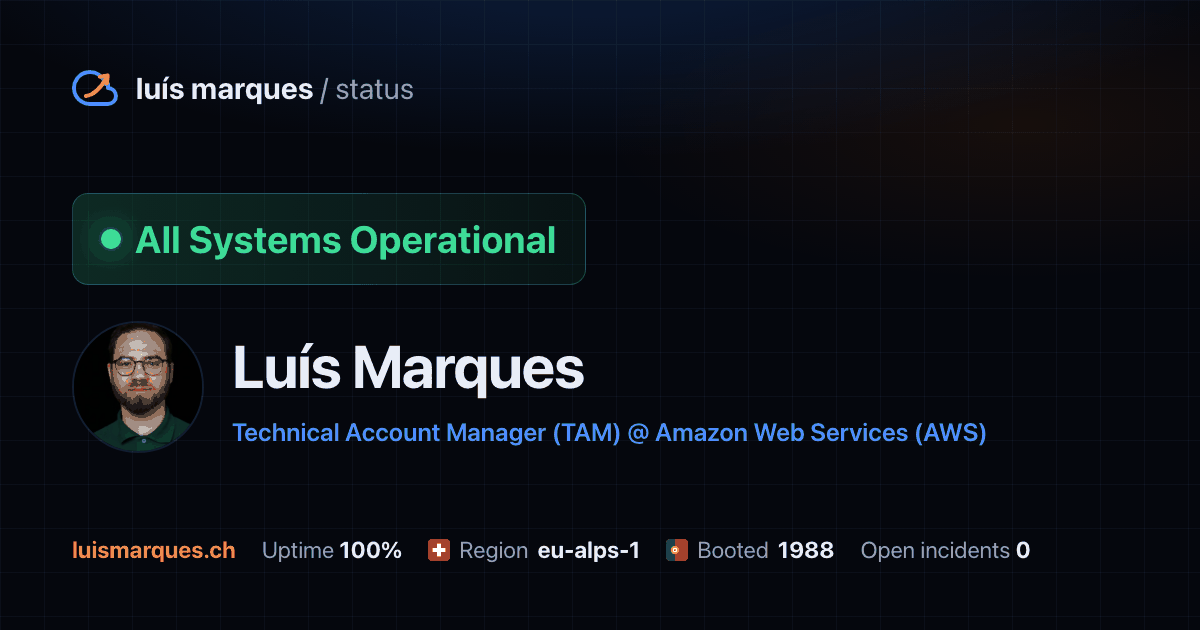
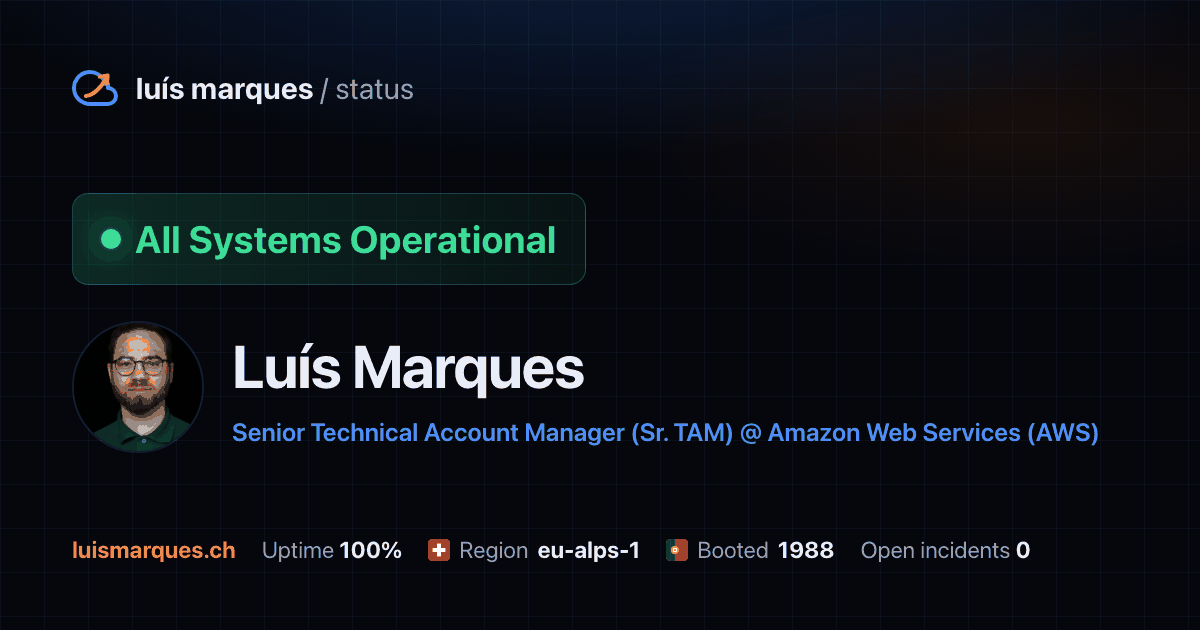
Add the Senior TAM promotion, October 2026

Changed region(s): [[0.185, 0.6635, 0.925, 0.7238], [0.0925, 0.5127, 0.1233, 0.6032]]

diff --git a/src/data/status.js b/src/data/status.js
@@ -7,7 +7,7 @@
 
 export const person = {
   name: 'Luís Marques',
-  title: 'Technical Account Manager (TAM) @ Amazon Web Services (AWS)',
+  title: 'Senior Technical Account Manager (Sr. TAM) @ Amazon Web Services (AWS)',
   // Official description of what a TAM actually does, for the curious.
   titleUrl: 'https://aws.amazon.com/premiumsupport/tam-engagement/',
   location: 'Martigny, Switzerland',
@@ -118,7 +118,22 @@ export const components = [
 // Career history, rendered as an incident log. Newest first.
 export const incidents = [
   {
-    period: 'Since 2022',
+    period: 'Since October 2026',
+    title: 'In-place upgrade: TAM to Senior TAM',
+    severity: 'resolved',
+    org: 'Amazon Web Services (AWS) · Geneva, CH',
+    flag: 'ch',
+    canton: 'ge',
+    role: 'Senior Technical Account Manager (Sr. TAM)',
+    entries: [
+      'Rolling upgrade, applied with zero downtime. No rollback plan was needed.',
+      'Change approved after a thorough review cycle, as all good changes are.',
+      'Release notes: wider scope, same curiosity, coffee intake unchanged.',
+      'Still Day 1. The counter above did not reset, I checked.',
+    ],
+  },
+  {
+    period: '2022 to 2026',
     title: 'Migrated to AWS, the employer this time, not just the cloud',
     severity: 'resolved',
     org: 'Amazon Web Services (AWS) · Geneva, CH',
@@ -215,10 +230,13 @@ export const eras = [
   { start: 2016, era: 'nespresso', name: 'Nespresso', label: 'Nespresso · eCommerce consultant · Lausanne' },
   { start: 2018, era: 'sqli', name: 'SQLI', label: 'SQLI · tech lead · Lausanne' },
   { start: 2022, era: 'aws', name: 'AWS', label: 'AWS · Technical Account Manager (TAM) · Geneva' },
+  { start: 2026, era: 'aws-sr', name: 'AWS (Senior)', label: 'AWS · Senior Technical Account Manager (Sr. TAM) · Geneva' },
 ];
 
 // Years that ran two engagements at once. Those bars render split, half of each colour.
 // 2018: the employer changed, the Nespresso engagement did not, so the year belongs to both.
+// 2026: TAM until September, Senior TAM from October, so the year carries both roles.
 export const overlaps = [
   { from: 2018, to: 2018, era: 'nespresso', label: 'Nespresso engagement continued through the employer change' },
+  { from: 2026, to: 2026, era: 'aws', label: 'TAM until September, promoted in October' },
 ];

diff --git a/tools/og-card.html b/tools/og-card.html
@@ -149,7 +149,7 @@
         <img src="../public/luis-sm.jpg" alt="" />
         <div>
           <h1>Luís Marques</h1>
-          <p class="role">Technical Account Manager (TAM) @ Amazon Web Services (AWS)</p>
+          <p class="role">Senior Technical Account Manager (Sr. TAM) @ Amazon Web Services (AWS)</p>
         </div>
       </div>
     </div>
